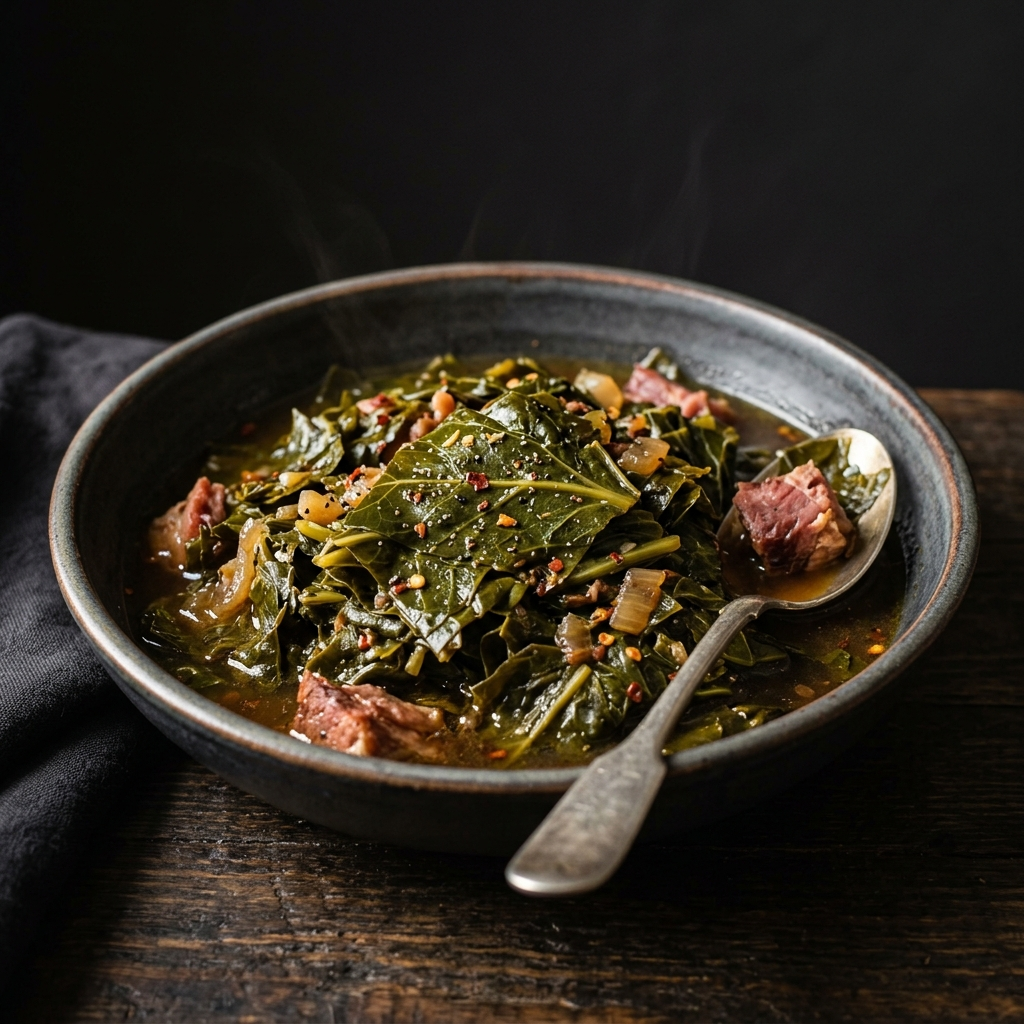
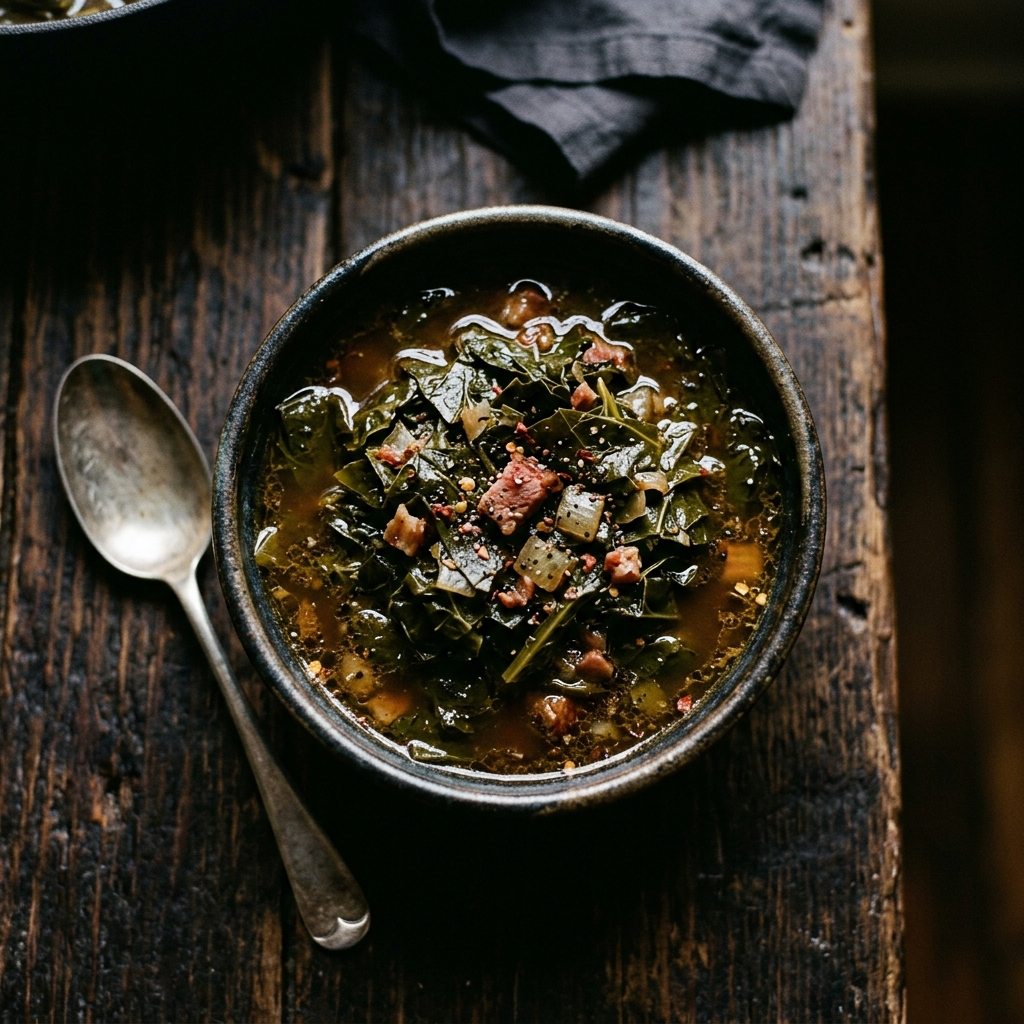
Add generated food and beverage images to menu

diff --git a/src/data/menuData.ts b/src/data/menuData.ts
@@ -197,7 +197,7 @@ export const EDITORIAL_MENU: EditorialMenuItem[] = [
     "id": "sq-MTWVYWMGBMBQX2EW6YF3U35Y",
     "name": "Kool Aid",
     "category": "Beverages",
-        "imageUrl": "",
+        "imageUrl": "/images/menu/kool_aid.png",
     "priceDisplay": "$1.99",
     "price": 1.99,
     "description": "Kool Aid offers a variety of refreshing flavors that are easy to prepare and perfect for parties or everyday enjoyment. A delicious drink everyone will love.",
@@ -263,7 +263,7 @@ export const EDITORIAL_MENU: EditorialMenuItem[] = [
     "id": "sq-XBPPDFVBP5ARLTDORA3255DQ",
     "name": "Burger w/ fries",
     "category": "Burgers & Hot Dogs",
-        "imageUrl": "",
+        "imageUrl": "/images/menu/burger_fries_sample.png",
     "priceDisplay": "$4.99",
     "price": 4.99,
     "description": "This burger includes a juicy beef patty layered on a toasted bun, offering a classic hamburger experience in every bite.",
@@ -281,7 +281,7 @@ export const EDITORIAL_MENU: EditorialMenuItem[] = [
     "id": "sq-V4PGVVKTCLD6EK53O6XABHHY",
     "name": "Cheese Burger w/ fries",
     "category": "Burgers & Hot Dogs",
-        "imageUrl": "",
+        "imageUrl": "/images/menu/cheese_burger.png",
     "priceDisplay": "$5.99",
     "price": 5.99,
     "description": "This cheeseburger features a juicy beef patty, perfectly melted cheese, and a toasted bun, delivering a classic and satisfying meal option.",
@@ -299,7 +299,7 @@ export const EDITORIAL_MENU: EditorialMenuItem[] = [
     "id": "sq-BDUK4AJFOSGSMEAC5HBBTDUA",
     "name": "Bacon Cheese Burger w/ fries",
     "category": "Burgers & Hot Dogs",
-        "imageUrl": "",
+        "imageUrl": "/images/menu/bacon_cheese_burger.png",
     "priceDisplay": "$6.99",
     "price": 6.99,
     "description": "The Bacon Cheese Burger features a juicy beef patty, melty cheese, and crispy bacon, all stacked on a toasted bun for a flavorful and hearty meal.",
@@ -335,7 +335,7 @@ export const EDITORIAL_MENU: EditorialMenuItem[] = [
     "id": "sq-2I5O6KGYY4NWH467ET5LK2SZ",
     "name": "Mac & Cheese",
     "category": "Sides",
-        "imageUrl": "",
+        "imageUrl": "/images/menu/mac_and_cheese_sample.png",
     "priceDisplay": "$3.99",
     "price": 3.99,
     "description": "This mac & cheese side dish features a creamy texture and rich cheesy flavor and golden brown top, perfect for a quick and easy addition to any meal.",
@@ -353,7 +353,7 @@ export const EDITORIAL_MENU: EditorialMenuItem[] = [
     "id": "sq-RCLO6X754SPPC73EP365GQMH",
     "name": "String Beans",
     "category": "Sides",
-        "imageUrl": "",
+        "imageUrl": "/images/menu/string_beans.png",
     "priceDisplay": "$3.99",
     "price": 3.99,
     "description": "Green beans offer a nutritious option with a savory, fresh taste, perfect as a side dish or a healthy addition to any meal.",
@@ -371,7 +371,7 @@ export const EDITORIAL_MENU: EditorialMenuItem[] = [
     "id": "sq-FJHA2WMU2P5SKKLJQU4RP42P",
     "name": "Fries",
     "category": "Sides",
-        "imageUrl": "",
+        "imageUrl": "/images/menu/fries.png",
     "priceDisplay": "$4.00",
     "price": 4,
     "description": "Crispy fries.",
@@ -389,7 +389,7 @@ export const EDITORIAL_MENU: EditorialMenuItem[] = [
     "id": "sq-D5XSHIHOG33W6JX2XYG3NWRV",
     "name": "Candied Yams",
     "category": "Sides",
-        "imageUrl": "",
+        "imageUrl": "/images/menu/candied_yams.png",
     "priceDisplay": "$3.99",
     "price": 3.99,
     "description": "Candied yams combine a sweet and savory flavor, making them a perfect side dish for any meal. Enjoy their rich taste and smooth texture as a delightful addition to your meal.",
@@ -494,7 +494,7 @@ export const EDITORIAL_MENU: EditorialMenuItem[] = [
     "id": "sq-C57I5HJEF23NG7KVNOH5OWKV",
     "name": "Pineapple Kool Aid",
     "category": "Beverages",
-        "imageUrl": "",
+        "imageUrl": "/images/menu/pineapple_kool_aid.png",
     "priceDisplay": "$2.99  /  $3.00",
     "price": 2.99,
     "description": "Pineapple Chunks in Kool-Aid delivers a refreshing tropical flavor that's easy to prepare and perfect for summer days. Enjoy a cool, fruity drink anytime.",
@@ -565,7 +565,7 @@ export const EDITORIAL_MENU: EditorialMenuItem[] = [
     "id": "sq-H3EVC4SIAULIBR444LIB3JXU",
     "name": "Honey ButterCorn Bread",
     "category": "Sides",
-        "imageUrl": "",
+        "imageUrl": "/images/menu/corn_bread.png",
     "priceDisplay": "$3.99",
     "price": 3.99,
     "description": "This corn bread offers a perfect balance of sweet and savory flavors with a moist, tender texture, making it an ideal sidekick for any meal.",
@@ -701,7 +701,7 @@ export const EDITORIAL_MENU: EditorialMenuItem[] = [
     "id": "sq-6FCR7Q4EPXNQAZAWTFJRN3XL",
     "name": "Collard Greens",
     "category": "Sides",
-        "imageUrl": "",
+        "imageUrl": "/images/menu/collard_greens.png",
     "priceDisplay": "$4.00",
     "price": 4,
     "description": "Collard greens are a nutrient-rich, versatile leafy green with a savory flavor, perfect for a variety of dishes from hearty stews to light meals.",
@@ -737,7 +737,7 @@ export const EDITORIAL_MENU: EditorialMenuItem[] = [
     "id": "sq-HI7FI6EVFWQCYO4UZCDNH2S6",
     "name": "Corn",
     "category": "Sides",
-        "imageUrl": "",
+        "imageUrl": "/images/menu/corn.png",
     "priceDisplay": "$3.99",
     "price": 3.99,
     "description": "",
@@ -755,7 +755,7 @@ export const EDITORIAL_MENU: EditorialMenuItem[] = [
     "id": "sq-SZHAVNOCWOPAUXZXUGFFE5UB",
     "name": "Cabbage",
     "category": "Sides",
-        "imageUrl": "",
+        "imageUrl": "/images/menu/cabbage.png",
     "priceDisplay": "$4.00",
     "price": 4,
     "description": "",
@@ -1076,7 +1076,7 @@ export const EDITORIAL_MENU: EditorialMenuItem[] = [
     "id": "sq-NGJ4ANMK4NRF2XKPG5YBS53Z",
     "name": "Whiting Fried Fish Sandwich w/ fries",
     "category": "Burgers & Hot Dogs",
-        "imageUrl": "",
+        "imageUrl": "/images/menu/fish_sandwich.png",
     "priceDisplay": "$4.99  /  $5.99",
     "price": 4.99,
     "description": "Savor the Whiting Fried Fish Sandwich featuring a flaky fish fillet with a crispy coating, topped with delicious tartar sauce, all nestled in soft bread. A simple and satisfying meal option.",
@@ -1271,7 +1271,7 @@ export const EDITORIAL_MENU: EditorialMenuItem[] = [
     "id": "sq-4RD7AJY5LYWDKMLFYBGPGA6K",
     "name": "Curry Chicken Sandwich w/ fries",
     "category": "Burgers & Hot Dogs",
-        "imageUrl": "",
+        "imageUrl": "/images/menu/curry_chicken_sandwich.png",
     "priceDisplay": "$4.99",
     "price": 4.99,
     "description": "",
@@ -1325,7 +1325,7 @@ export const EDITORIAL_MENU: EditorialMenuItem[] = [
     "id": "sq-MFLWGJ4KDGUTQGM4LPPIGHIF",
     "name": "Chicken Sandwich w/ fries",
     "category": "Burgers & Hot Dogs",
-        "imageUrl": "",
+        "imageUrl": "/images/menu/chicken_sandwich.png",
     "priceDisplay": "$3.99",
     "price": 3.99,
     "description": "Savor a chicken sandwich with juicy, crispy chicken and a variety of delicious toppings for a satisfying meal.",
@@ -1343,7 +1343,7 @@ export const EDITORIAL_MENU: EditorialMenuItem[] = [
     "id": "sq-3SONMIDPP4LNWEAK4QTJAKYR",
     "name": "Iced Coffee",
     "category": "Beverages",
-        "imageUrl": "",
+        "imageUrl": "/images/menu/iced_coffee.png",
     "priceDisplay": "$4.00",
     "price": 4,
     "description": "Enjoy refreshing iced coffee available in multiple flavor options, perfect for any time of the day. Choose your favorite and stay cool with every sip.",
@@ -1419,7 +1419,7 @@ export const EDITORIAL_MENU: EditorialMenuItem[] = [
     "id": "sq-X2O6BUWW4X2CG5QAQNVKXDPY",
     "name": "Coffee",
     "category": "Beverages",
-        "imageUrl": "",
+        "imageUrl": "/images/menu/coffee.png",
     "priceDisplay": "$2.00",
     "price": 2,
     "description": "",
@@ -1498,7 +1498,7 @@ export const EDITORIAL_MENU: EditorialMenuItem[] = [
     "id": "sq-LWK4AVNRUVMJ5XJVE3QB2SJY",
     "name": "Turkey Burger w/ fries",
     "category": "Burgers & Hot Dogs",
-        "imageUrl": "",
+        "imageUrl": "/images/menu/turkey_burger.png",
     "priceDisplay": "$6.00  /  $9.00",
     "price": 6,
     "description": "",
@@ -1726,7 +1726,7 @@ export const EDITORIAL_MENU: EditorialMenuItem[] = [
     "id": "sq-QOMJGN35QNEWF56DDPZTQLOU",
     "name": "Hotdog",
     "category": "Burgers & Hot Dogs",
-        "imageUrl": "",
+        "imageUrl": "/images/menu/hotdog.png",
     "priceDisplay": "$1.99  /  $3.99",
     "price": 1.99,
     "description": "",
@@ -2664,7 +2664,7 @@ export const EDITORIAL_MENU: EditorialMenuItem[] = [
     "id": "sq-CD6FHEI3H2HQCOLVYRT3I2N2",
     "name": "Jerk Chicken Sandwich with fries",
     "category": "Burgers & Hot Dogs",
-        "imageUrl": "",
+        "imageUrl": "/images/menu/jerk_chicken_sandwich.png",
     "priceDisplay": "$4.99",
     "price": 4.99,
     "description": "",
@@ -2718,7 +2718,7 @@ export const EDITORIAL_MENU: EditorialMenuItem[] = [
     "id": "sq-KZZEX3L4VSRD2C7JY4TYEARL",
     "name": "Pulled Pork Sandwich with fries",
     "category": "Burgers & Hot Dogs",
-        "imageUrl": "",
+        "imageUrl": "/images/menu/pulled_pork_sandwich.png",
     "priceDisplay": "$9.99",
     "price": 9.99,
     "description": "",
@@ -2736,7 +2736,7 @@ export const EDITORIAL_MENU: EditorialMenuItem[] = [
     "id": "sq-6MTXHIDA2BBKJFC54BEMBDEM",
     "name": "Watermelon Bowl",
     "category": "Beverages",
-        "imageUrl": "",
+        "imageUrl": "/images/menu/watermelon_bowl.png",
     "priceDisplay": "$1.99",
     "price": 1.99,
     "description": "",
@@ -2808,7 +2808,7 @@ export const EDITORIAL_MENU: EditorialMenuItem[] = [
     "id": "sq-ZWV5CMJKGCK4GKSRPCL6GA54",
     "name": "Grilled Cheese",
     "category": "Burgers & Hot Dogs",
-        "imageUrl": "",
+        "imageUrl": "/images/menu/grilled_cheese.png",
     "priceDisplay": "$1.99",
     "price": 1.99,
     "description": "",
@@ -2913,7 +2913,7 @@ export const EDITORIAL_MENU: EditorialMenuItem[] = [
     "id": "sq-QFVZNXP5Z4552TK56XDGEYHQ",
     "name": "Fresh Squeezed Lemonade",
     "category": "Beverages",
-        "imageUrl": "",
+        "imageUrl": "/images/menu/lemonade.png",
     "priceDisplay": "$2.99",
     "price": 2.99,
     "description": "16oz",
@@ -2951,7 +2951,7 @@ export const EDITORIAL_MENU: EditorialMenuItem[] = [
     "id": "sq-ZA4NB6FKVT52VWP36XKVM5LD",
     "name": "Fresh Squeezed Lemonade Large",
     "category": "Beverages",
-        "imageUrl": "",
+        "imageUrl": "/images/menu/lemonade.png",
     "priceDisplay": "$5.99",
     "price": 5.99,
     "description": "32oz",
@@ -3237,7 +3237,7 @@ export const EDITORIAL_MENU: EditorialMenuItem[] = [
     "id": "sq-EZEFBHO4TYCMBJMAPJCPCR4H",
     "name": "Dirty Soda",
     "category": "Beverages",
-        "imageUrl": "",
+        "imageUrl": "/images/menu/dirty_soda.png",
     "priceDisplay": "$2.99  /  $4.99",
     "price": 2.99,
     "description": "",
@@ -3388,7 +3388,7 @@ export const EDITORIAL_MENU: EditorialMenuItem[] = [
     "id": "sq-DFX25JB4EE67JJQJMGZBXQJU",
     "name": "Mushroom Sandwich",
     "category": "Burgers & Hot Dogs",
-        "imageUrl": "",
+        "imageUrl": "/images/menu/mushroom_sandwich.png",
     "priceDisplay": "$9.99",
     "price": 9.99,
     "description": "",
@@ -3406,7 +3406,7 @@ export const EDITORIAL_MENU: EditorialMenuItem[] = [
     "id": "sq-ZK5UW74IRDBYUTG6WJKCNWMW",
     "name": "Vegan Burger",
     "category": "Burgers & Hot Dogs",
-        "imageUrl": "",
+        "imageUrl": "/images/menu/vegan_burger.png",
     "priceDisplay": "$8.99",
     "price": 8.99,
     "description": "",
@@ -3593,7 +3593,7 @@ export const EDITORIAL_MENU: EditorialMenuItem[] = [
     "id": "sq-EKFX736FV4YJ2GHNERLTQVMY",
     "name": "Salmon Burger w/ fries",
     "category": "Burgers & Hot Dogs",
-        "imageUrl": "",
+        "imageUrl": "/images/menu/salmon_burger.png",
     "priceDisplay": "$6.99",
     "price": 6.99,
     "description": "",
@@ -3675,7 +3675,7 @@ export const EDITORIAL_MENU: EditorialMenuItem[] = [
     "id": "sq-GUDFTNJNRISTNID5IL2KDCY6",
     "name": "Hot Honey Chicken Sandwich w/ Fries",
     "category": "Burgers & Hot Dogs",
-        "imageUrl": "",
+        "imageUrl": "/images/menu/hot_honey_chicken_sandwich.png",
     "priceDisplay": "$4.99",
     "price": 4.99,
     "description": "",
@@ -3721,7 +3721,7 @@ export const EDITORIAL_MENU: EditorialMenuItem[] = [
     "id": "sq-4VR3ON4WXCCEOEHSFCBOMOGL",
     "name": "Pineapple Koolaid Large",
     "category": "Beverages",
-        "imageUrl": "",
+        "imageUrl": "/images/menu/pineapple_kool_aid.png",
     "priceDisplay": "$5.99",
     "price": 5.99,
     "description": "",
